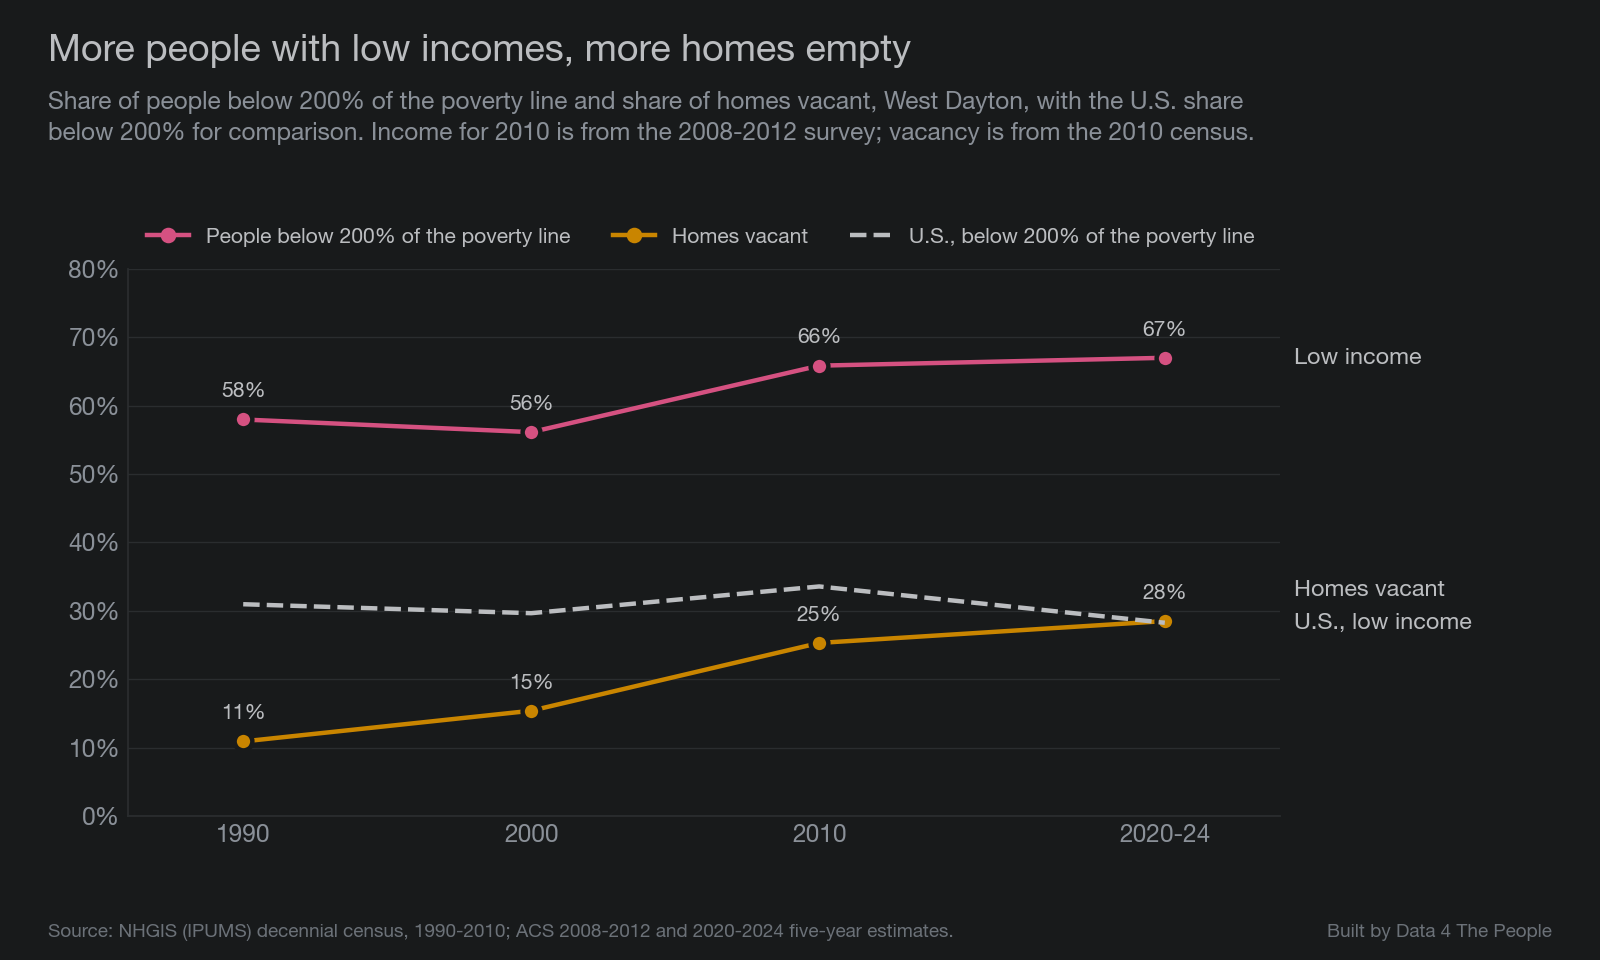
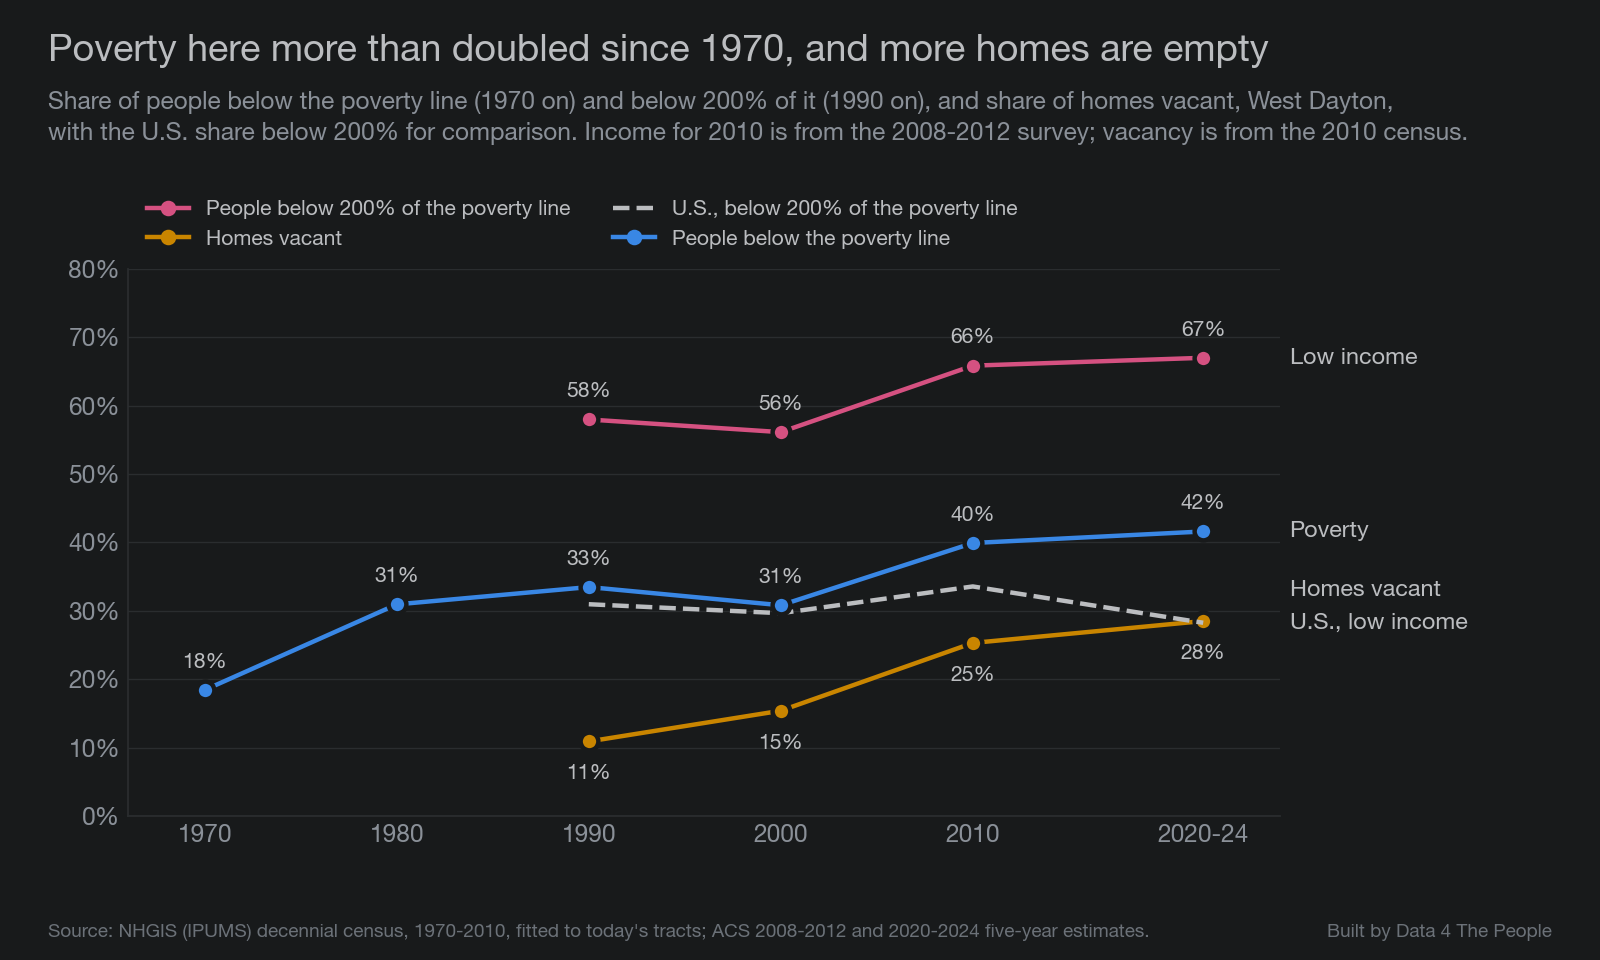
spotlight-west-dayton: add the poverty line, 1970 on, to chart 03

diff --git a/scripts/81_spotlight_charts.py b/scripts/81_spotlight_charts.py
@@ -26,7 +26,7 @@ from plot_style import use_house_style, titleblock, credit, INK, INK_DIM, MUTED,
 
 # county = main county (overdose, county history); od_fips = the code CDC's file uses (Oglala Lakota was Shannon, 46113)
 CFG = {
-    "U047": dict(health4="TREND", slug="spotlight-west-dayton", name="West Dayton", county="39113", county_name="Montgomery County",
+    "U047": dict(health4="TREND", pov_line=True, slug="spotlight-west-dayton", name="West Dayton", county="39113", county_name="Montgomery County",
                  city="Dayton", state="OH", holc_year="1937", labels=[("Downtown", 39.7589, -84.1916)]),
     "U034": dict(health4="COPD", slug="spotlight-north-birmingham", name="North Birmingham", county="01073", county_name="Jefferson County",
                  city="Birmingham", state="AL", holc_year="1930s", labels=[("Downtown", 33.5186, -86.8104)]),
@@ -184,7 +184,9 @@ def build(cid):
 
     # ---------- 03 low income and vacancy ----------
     # Low income = below 200% of the poverty line (below200.csv: NHGIS C20 1990-2000, ACS C17002 after); U.S. as a dashed reference.
-    LX = {"1990": 1990, "2000": 2000, "2008-2012": 2010, "2010": 2010, "2020-2024": 2022}
+    LX = {"1970": 1970, "1980": 1980, "1990": 1990, "2000": 2000, "2008-2012": 2010, "2010": 2010, "2020-2024": 2022}
+    PL = C.get("pov_line")  # also draw poverty (below 100% of the line), 1970 on, from history_final
+    pv = h[h.measure == "poverty_rate"].assign(x=lambda d: d.year.map(LX)).dropna(subset=["x"]).sort_values("x") if PL else None
     lw = B200[B200.area == cid].assign(x=lambda d: d.year.map(LX)).sort_values("x")
     us = B200[B200.area == "US"].assign(x=lambda d: d.year.map(LX)).sort_values("x")
     vc_ = h[(h.measure == "vacancy_rate") & (h.year != "2008-2012")].assign(x=lambda d: d.year.map(LX)).dropna(subset=["x"]).sort_values("x")
@@ -192,17 +194,22 @@ def build(cid):
     ax.plot(lw.x, lw.value, color=MAGENTA, lw=2, marker="o", ms=8, mec=SURFACE, mew=2)
     ax.plot(vc_.x, vc_.value, color=YELLOW, lw=2, marker="o", ms=8, mec=SURFACE, mew=2)
     ax.plot(us.x, us.value, color=INK, lw=2, ls="--")
+    if PL:
+        ax.plot(pv.x, pv.value, color=BLUE, lw=2, marker="o", ms=8, mec=SURFACE, mew=2)
+        for x, v in zip(pv.x, pv.value):
+            ax.annotate(f"{v:.0f}%", (x, v), xytext=(0, 10), textcoords="offset points", ha="center", color=INK, fontsize=9.5)
     usv = us.set_index("x").value
     for x, v in zip(lw.x, lw.value):
         ax.annotate(f"{v:.0f}%", (x, v), xytext=(0, 10), textcoords="offset points", ha="center", color=INK, fontsize=9.5)
     for x, v in zip(vc_.x, vc_.value):  # below the marker when the U.S. line is close above it
-        dn = x in usv.index and 0 <= usv[x] - v < 7
+        dn = PL or (x in usv.index and 0 <= usv[x] - v < 7)
         ax.annotate(f"{v:.0f}%", (x, v), xytext=(0, -17 if dn else 10), textcoords="offset points", ha="center", color=INK, fontsize=9.5)
     top = max(100, 0) if lw.value.max() > 80 else max(lw.value.max(), 60) + 10
-    ax.set_ylim(0, min(100, np.ceil(top / 10) * 10)); ax.set_xlim(1986, 2026)
-    ax.set_xticks([1990, 2000, 2010, 2022]); ax.set_xticklabels(["1990", "2000", "2010", "2020-24"])
+    ax.set_ylim(0, min(100, np.ceil(top / 10) * 10)); ax.set_xlim(1966 if PL else 1986, 2026)
+    xt = ([1970, 1980] if PL else []) + [1990, 2000, 2010, 2022]
+    ax.set_xticks(xt); ax.set_xticklabels([str(x) for x in xt[:-1]] + ["2020-24"])
     # end labels, pushed apart so they never overlap
-    ends = sorted([(lw.value.iloc[-1], "Low income"), (vc_.value.iloc[-1], "Homes vacant"), (us.value.iloc[-1], "U.S., low income")])
+    ends = sorted([(lw.value.iloc[-1], "Low income"), (vc_.value.iloc[-1], "Homes vacant"), (us.value.iloc[-1], "U.S., low income")] + ([(pv.value.iloc[-1], "Poverty")] if PL else []))
     gapu = ax.get_ylim()[1] * 0.06; pos = []
     for v, l in ends:
         y = v if not pos or v - pos[-1] >= gapu else pos[-1] + gapu; pos.append(y)
@@ -210,15 +217,20 @@ def build(cid):
     ax.yaxis.set_major_formatter(plt.FuncFormatter(lambda v, _: f"{v:.0f}%")); axes_style(ax)
     ax.legend(handles=[Line2D([], [], color=MAGENTA, lw=2, marker="o", label="People below 200% of the poverty line"),
                        Line2D([], [], color=YELLOW, lw=2, marker="o", label="Homes vacant"),
-                       Line2D([], [], color=INK, lw=2, ls="--", label="U.S., below 200% of the poverty line")],
-              loc="upper left", frameon=False, labelcolor=INK, fontsize=9.5, ncol=3, bbox_to_anchor=(0, 1.11))
+                       Line2D([], [], color=INK, lw=2, ls="--", label="U.S., below 200% of the poverty line")]
+                      + ([Line2D([], [], color=BLUE, lw=2, marker="o", label="People below the poverty line")] if PL else []),
+              loc="upper left", frameon=False, labelcolor=INK, fontsize=9.5, ncol=2 if PL else 3, bbox_to_anchor=(0, 1.16 if PL else 1.11))
     l0, l1 = lw.value.iloc[0], lw.value.iloc[-1]; v0, v1 = vc_.value.iloc[0], vc_.value.iloc[-1]
     t = ("More people with low incomes, more homes empty" if l1 - l0 >= 5 and v1 - v0 >= 3 else
          "Fewer people with low incomes than in 1990, but more homes empty" if l0 - l1 >= 5 and v1 - v0 >= 3 else
          "Most people here have low incomes, and more homes are empty" if v1 - v0 >= 3 else
          "Most people here have low incomes")
-    titleblock(fig, t, f"Share of people below 200% of the poverty line and share of homes vacant, {C['name']}, with the U.S. share\nbelow 200% for comparison. Income for 2010 is from the 2008-2012 survey; vacancy is from the 2010 census.")
-    credit(fig, "Source: NHGIS (IPUMS) decennial census, 1990-2010; ACS 2008-2012 and 2020-2024 five-year estimates.")
+    if PL: t = "Poverty here more than doubled since 1970, and more homes are empty"
+    sub = (f"Share of people below the poverty line (1970 on) and below 200% of it (1990 on), and share of homes vacant, {C['name']},\nwith the U.S. share below 200% for comparison. Income for 2010 is from the 2008-2012 survey; vacancy is from the 2010 census." if PL else
+           f"Share of people below 200% of the poverty line and share of homes vacant, {C['name']}, with the U.S. share\nbelow 200% for comparison. Income for 2010 is from the 2008-2012 survey; vacancy is from the 2010 census.")
+    titleblock(fig, t, sub)
+    credit(fig, "Source: NHGIS (IPUMS) decennial census, 1970-2010, fitted to today's tracts; ACS 2008-2012 and 2020-2024 five-year estimates." if PL else
+           "Source: NHGIS (IPUMS) decennial census, 1990-2010; ACS 2008-2012 and 2020-2024 five-year estimates.")
     fig.savefig(out / "03-low-income-vacancy.png"); plt.close(fig)
     info.update(low_income=dict(zip(lw.year, lw.value.round(1))), vacancy=dict(zip(vc_.year, vc_.value.round(1))))
 

diff --git a/DATASETS.md b/DATASETS.md
@@ -466,7 +466,7 @@ Each spotlight post opens with 5 economic and 5 health measures for the neighbor
 - **One health chart per post, chosen for the story.** Overdose deaths where they are part of the story (Baltimore, Flint, McDowell, Owsley). West Dayton: four tract health measures over time (below). Otherwise: county life expectancy against the state and the U.S. (Clarksdale, Pine Ridge, Clarksville; County Health Rankings 2026 supplement, v147, 2021-2023), or one CDC PLACES 2025 measure for the neighborhood, county, state and U.S., each an adult-weighted average of its tracts (Birmingham: COPD; El Paso: diabetes).
 - **Drug overdose deaths:** CDC NCHS "Drug Poisoning Mortality by County," model-based death rates, 2003-2021 (data.cdc.gov dataset rpvx-m2md). The main county of each pick is shown next to the median of all county rates each year ("the middle U.S. county"). These are county-wide.
 - **Tract health over time (West Dayton; `scripts/84_health_trend.py`, `analysis/spotlight/health_trend_U047.csv`):** crude prevalence for adults from every CDC 500 Cities release (data.cdc.gov 9z78-nsfp, vurf-k5wr, rja3-32tc, 6vp6-wxuq; survey years 2013-2017) and PLACES release (4ai3-zynv, 373s-ayzu, nw2y-v4gm, em5e-5hvn, ai6z-tcin, cwsq-ngmh; survey years 2017-2023). The six tracts' values are averaged, weighted by total population. Their 2010 and 2020 lines are the same. Where two releases share a survey year, the later release is kept. U.S.: the 500 Cities U.S. row (BRFSS direct estimate) for 500 Cities releases; the population-weighted mean of all tracts, computed by the CDC API, for PLACES releases. No tract health estimates exist before the 2016 500 Cities release. CDC's PLACES FAQ says "The current modeling procedure does not support using the estimates to track changes at the local level over time" (the population used in the model is fixed at the census), so the post reads only the gap to the U.S. within each release, not the change.
-- **Then-and-now charts** use `history_final.csv` and hide years with fit under 0.8, as the tables do. Chart 03 shows the share below 200% of the poverty line (`below200.csv`, 1990 to 2020-2024, with the U.S. share as a dashed line) and the share of homes vacant (decennial census for 1990, 2000 and 2010; ACS for 2020-2024). Its 2010 income point is the ACS 2008-2012 estimate. The key measures table keeps the poverty rate.
+- **Then-and-now charts** use `history_final.csv` and hide years with fit under 0.8, as the tables do. Chart 03 shows the share below 200% of the poverty line (`below200.csv`, 1990 to 2020-2024, with the U.S. share as a dashed line); for West Dayton it also shows the poverty rate (below 100% of the line, `history_final.csv` measure poverty_rate, 1970 to 2020-2024; 1970 fit 0.85, 1980 fit 0.91, 1990 fit 0.86) and the share of homes vacant (decennial census for 1990, 2000 and 2010; ACS for 2020-2024). Its 2010 income point is the ACS 2008-2012 estimate. The key measures table keeps the poverty rate.
 
 ### Race by HOLC grade, Dayton, 1940 (`scripts/86_fetch_nhgis_1940.py`, `scripts/87_holc_race_1940.py`, `analysis/spotlight/holc_race_dayton_1940.csv`)
 

diff --git a/posts/spotlight-west-dayton/POST.md b/posts/spotlight-west-dayton/POST.md
@@ -108,8 +108,8 @@ GM's Moraine plant, south of the city, employed 4,300 people at its peak. About 
 
 The Moraine plant and NCR's headquarters were not in West Dayton. The City's plan says Dayton lost thousands of factory jobs and businesses, and that West Dayton now has more poverty and joblessness than most of the rest of the city ([West Dayton Neighborhoods Vision, 2019, p. 2](https://www.daytonohio.gov/DocumentCenter/View/6763/West-Dayton-Neighborhoods-Vision-document)). The chart below shows the share of West Dayton residents with low incomes, meaning below 200% of the poverty line, and the share of homes standing empty over the same decades. Two in three people here now have low incomes, compared with fewer than three in ten nationwide. Poverty alone, below 100% of the line, went from 18% in 1970 to 42% in 2020-2024.
 
-![Line chart of three shares for West Dayton. People below 200% of the poverty line: 58% in 1990, 56% in 2000, 66% in 2008-2012 and 67% in 2020-2024. Homes vacant: 11% in 1990, 15% in 2000, 25% in 2010 and 28% in 2020-2024. U.S. share below 200%, dashed: 31% in 1990 and 28% in 2020-2024.](images/03-low-income-vacancy.png)
-*Low income here means below 200% of the federal poverty line. Income for 2010 is from the 2008-2012 survey.*
+![Line chart of four shares for West Dayton. People below the poverty line: 18% in 1970, 31% in 1980, 33% in 1990, 31% in 2000, 40% in 2008-2012 and 42% in 2020-2024. People below 200% of the poverty line: 58% in 1990, 56% in 2000, 66% in 2008-2012 and 67% in 2020-2024. Homes vacant: 11% in 1990, 15% in 2000, 25% in 2010 and 28% in 2020-2024. U.S. share below 200%, dashed: 31% in 1990 and 28% in 2020-2024.](images/03-low-income-vacancy.png)
+*Low income here means below 200% of the federal poverty line. Counts before 2010 are fitted to today's tract lines. Income for 2010 is from the 2008-2012 survey.*
 
 ## Health
 
